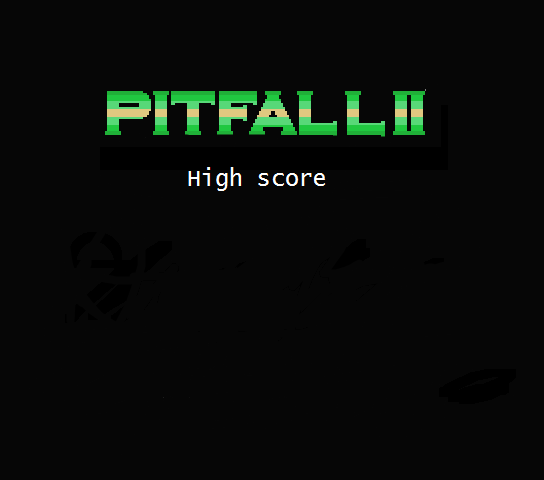
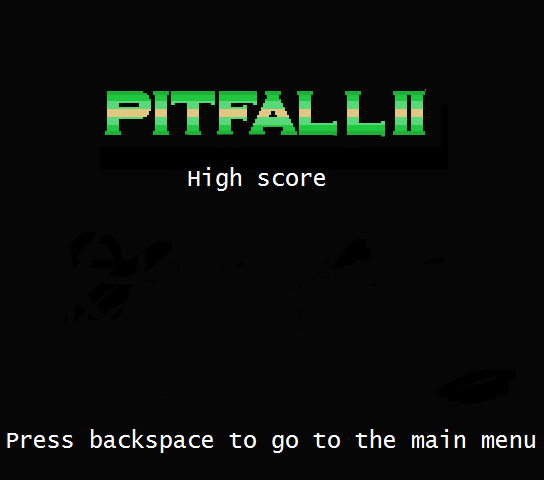
8/12

Changed region(s): [[0.0, 0.9062, 0.4688, 0.9375], [0.6562, 0.875, 1.0, 0.9375], [0.5, 0.9062, 0.625, 0.9375]]

diff --git a/core/src/com/mygdx/game/MyGdxGame.java b/core/src/com/mygdx/game/MyGdxGame.java
@@ -35,7 +35,7 @@ public class MyGdxGame extends ApplicationAdapter implements InputProcessor {
     InteractiveObject doorTwo;
     InteractiveObject doorThree;
     Texture cactus;
-    ArrayList<Integer> highscore;
+    ArrayList <Integer> highscores = new ArrayList<Integer>();
     BitmapFont highscorefont;
     Texture high_score;
     ArrayList<Coin> coins;
@@ -47,12 +47,8 @@ public class MyGdxGame extends ApplicationAdapter implements InputProcessor {
 
     Hero hero;// //an extra reference to Hero, for convenience.
 
-
-    Animation walkAnimation; // Allows us to create animated figure.
-    Texture walkSheet;          //The Texture which will contain the whole sheet as a single image (texture).
-    TextureRegion[] walkFrames; //Declare walkFrames as an array, the array holds each frame of the animation.
     SpriteBatch spriteBatch;    //The SpriteBatch is used to draw the texture onto the screen.
-    TextureRegion currentFrame; //This variable will hold the current frame and this is the region which is drawn on each render call.
+    static TextureRegion currentFrame; //This variable will hold the current frame and this is the region which is drawn on each render call.
 
     float stateTime;   // The stateTime is the number of seconds elapsed from the start of the animation.
     GameState state = GameState.START_SCREEN;
@@ -69,7 +65,6 @@ public class MyGdxGame extends ApplicationAdapter implements InputProcessor {
         createObstacles();
         createHero();
         createEnemyOne();
-        createTreasure();
         createScenarios();
         Gdx.input.setInputProcessor(this);
 
@@ -138,8 +133,8 @@ public class MyGdxGame extends ApplicationAdapter implements InputProcessor {
         obstacles.add(brickplattform2);
         obstacles.add(brickplattform4);
 
-        Coin coin1 = new Coin("Plattform/coiiins.png", 350, 500, 50);
-        Coin coin2 = new Coin("Plattform/coiiins.png", 750, 400, 50);
+        Coin coin1 = new Coin("Plattform/coiiins.png", 300, 170, 50);
+        Coin coin2 = new Coin("Plattform/coiiins.png", 980, 440, 50);
         coins.add(coin1);
         coins.add(coin2);
         door = new InteractiveObject("Plattform/Door.png", 1185, 420, 120, 90);
@@ -160,6 +155,16 @@ public class MyGdxGame extends ApplicationAdapter implements InputProcessor {
         Obstacle plattform6 = new Obstacle("Plattform/brickPlattform.png", 1000, 75, 200, 25);
         Obstacle plattform7 = new Obstacle("Plattform/brickPlattform.png", 850, 179, 150, 25);
         Obstacle plattform8 = new Obstacle("Plattform/brickPlattform.png", 630, 520, 650, 25);
+
+        Coin coin1 = new Coin("Plattform/coiiins.png", 970, 208, 50);
+        Coin coin2 = new Coin("Plattform/coiiins.png", 300, 380, 50);
+        Coin coin3 = new Coin("Plattform/coiiins.png", 380, 120, 50);
+        Coin coin4 = new Coin("Plattform/coiiins.png", 1000, 30, 50);
+        coins.add(coin1);
+        coins.add(coin2);
+        coins.add(coin3);
+        coins.add(coin4);
+
 
 
         obstacles.add(plattform4);
@@ -202,6 +207,16 @@ public class MyGdxGame extends ApplicationAdapter implements InputProcessor {
         InteractiveObject ladder1 = new InteractiveObject("Hero/ladder.png", 100, 90, 50, 250);
         InteractiveObject ladder2 = new InteractiveObject("Hero/ladder.png", 550, 350, 50, 200);
         InteractiveObject ladder3 = new InteractiveObject("Hero/ladder.png", 1000, 90, 50, 270);
+
+        Coin coin1 = new Coin("Plattform/coiiins.png", 70, 360, 50);
+        Coin coin2 = new Coin("Plattform/coiiins.png", 1110, 570, 50);
+        Coin coin3 = new Coin("Plattform/coiiins.png", 580, 130, 50);
+        Coin coin4 = new Coin("Plattform/coiiins.png", 80, 100, 50);
+
+        coins.add(coin1);
+        coins.add(coin2);
+        coins.add(coin3);
+        coins.add(coin4);
 
         doorThree = new InteractiveObject("Plattform/Door.png", 1100, 350, 80, 80);
         iceForm11 = new Blocks("Plattform/iceform2.png", 900,430,65,65);
@@ -268,29 +283,6 @@ public class MyGdxGame extends ApplicationAdapter implements InputProcessor {
         controls = new Texture("gamescenarios/pitfall2_controls.png");
         gameover = new Texture("gamescenarios/Game_Over_Screen.png");
         high_score = new Texture("gamescenarios/high_score.png");
-    }
-
-
-    public void createTreasure() {
-        //1 Creates a texture from animation_sheet.png which is placed in the walksheet directory of the project
-        //2 Using the split convenience method on the texture, we obtain a two dimensional array of the frames from the texture,  the walkFrames array is populated. This is necessary, as the Animation works with one dimensional arrays only.
-
-        walkSheet = new Texture(Gdx.files.internal("Plattform/coiiins.png"));
-        TextureRegion[][] tmp = TextureRegion.split(walkSheet, walkSheet.getWidth() / FRAME_COLS, walkSheet.getHeight() / FRAME_ROWS);              // #10
-        walkFrames = new TextureRegion[FRAME_COLS * FRAME_ROWS];
-        int index = 0;
-        for (int i = 0; i < FRAME_ROWS; i++) {
-            for (int j = 0; j < FRAME_COLS; j++) {
-                walkFrames[index++] = tmp[i][j];
-            }
-
-            walkAnimation = new Animation(0.080f, walkFrames); //3 This is where the Animation is created. The first parameter tells the animation, how much time is allocated for each frame.
-             //4 Initialises the SpriteBatch which will draw the frame.
-            stateTime = 0f; // Resets the stateTime to 0. It will start accumulating the time each render call.
-
-
-        }
-
     }
 
     public void checkObstacleCollision() {
@@ -493,30 +485,45 @@ public class MyGdxGame extends ApplicationAdapter implements InputProcessor {
     }
 
     public void gameOver() {
-        highscore = new ArrayList<Integer>();
-        highscore.add(score);
-        Collections.sort(highscore);
-        Collections.reverse(highscore);
+
+        highscores.add(score);
+        Collections.sort(highscores);
+        Collections.reverse(highscores);
         score = 0;
         Life = 3;
         spriteBatch.begin();
         spriteBatch.draw(gameover, 480, 210);
         spriteBatch.end();
+        if (Gdx.input.isKeyPressed(Input.Keys.SPACE)) {
+            state = GameState.START_SCREEN;
+        }
 
     }
 
     public void showHighScore(){
 
-        int xpos = 450;
+        //highscore != 0 &&
+        float ypos = 405;
+        float xpos = 598;
+        int rank = 1;
         spriteBatch.begin();
-        spriteBatch.draw(high_score, 500, 220);
-        if (highscore.size() != 0) {
-            for (int i = 1; i <= highscore.size(); i++) {
-                highscorefont.draw(spriteBatch, i + " " + highscore.get(i), xpos, 240);
-                xpos -= 50;
+        spriteBatch.draw(high_score, 411, 144);
+        if (highscores.size() != 0) {
+            for (Integer highscore : highscores){
+                if ( rank <= 10) {
+                    if (rank == 10){
+                        xpos -= 7;
+                    }
+                    highscorefont.draw(spriteBatch, rank + "                           " + highscore, xpos, ypos);
+                    rank++;
+                    ypos -= 20;
+                }
             }
         }
         spriteBatch.end();
+        if (Gdx.input.isKeyPressed(Input.Keys.BACKSPACE)) {
+            state = GameState.START_SCREEN;
+        }
     }
 
     public void showControls() {
@@ -534,7 +541,7 @@ public class MyGdxGame extends ApplicationAdapter implements InputProcessor {
         Gdx.gl.glClear(GL20.GL_COLOR_BUFFER_BIT | GL20.GL_DEPTH_BUFFER_BIT); //Clears the screen each frame.
         stateTime += Gdx.graphics.getDeltaTime(); // Adds the time elapsed since the last render to the stateTime.
 
-        currentFrame = walkAnimation.getKeyFrame(stateTime, true); //Obtains the current frame
+        currentFrame = Coin.walkAnimation.getKeyFrame(stateTime, true); //Obtains the current frame
 
         checkObstacleCollision();
         checkEnemyCollision();
@@ -547,8 +554,6 @@ public class MyGdxGame extends ApplicationAdapter implements InputProcessor {
 
         spriteBatch.begin();
         spriteBatch.draw(backGroundImg, 0, 20);
-        spriteBatch.draw(currentFrame, 980, 440); // Renders the current frame onto the screen using the super awesome SpriteBatch at 50,50.
-        spriteBatch.draw(currentFrame, 300, 170);
         font.draw(spriteBatch, "Number of lives:" + Life, 20, 700);
 
 
@@ -563,9 +568,8 @@ public class MyGdxGame extends ApplicationAdapter implements InputProcessor {
         }
         door.draw(spriteBatch);
 
-
-        for (InteractiveObject coin : coins){
-            coin.draw(spriteBatch);
+        for (Coin coin : coins){
+            coin.drawCoin(spriteBatch);
         }
 
         //Update all game figures' positions based on their speeds
@@ -605,7 +609,7 @@ public class MyGdxGame extends ApplicationAdapter implements InputProcessor {
         Gdx.gl.glClear(GL20.GL_COLOR_BUFFER_BIT | GL20.GL_DEPTH_BUFFER_BIT); //Clears the screen each frame.
         stateTime += Gdx.graphics.getDeltaTime(); // Adds the time elapsed since the last render to the stateTime.
 
-        currentFrame = walkAnimation.getKeyFrame(stateTime, true); //Obtains the current frame
+        currentFrame = Coin.walkAnimation.getKeyFrame(stateTime, true); //Obtains the current frame
 
 
 
@@ -619,15 +623,16 @@ public class MyGdxGame extends ApplicationAdapter implements InputProcessor {
             figure.updatePosition();
         }
 
+
+
         spriteBatch.begin();
         spriteBatch.draw(backGroundImg, 0, 20);
-		spriteBatch.draw(currentFrame, 970, 208); // Renders the current frame onto the screen using the super awesome SpriteBatch at 50,50.
-		spriteBatch.draw(currentFrame, 300, 380);
-        spriteBatch.draw(currentFrame, 380, 120);
-        spriteBatch.draw(currentFrame, 1000, 30);
         font.draw(spriteBatch, "Number of lives:"+ Life, 20, 700);
         spriteBatch.draw(cactus,550,20,200,140);
 
+        for (Coin coin : coins){
+            coin.drawCoin(spriteBatch);
+        }
 
         for (Obstacle obstacle : obstacles) {
             obstacle.draw(spriteBatch);
@@ -675,7 +680,7 @@ public class MyGdxGame extends ApplicationAdapter implements InputProcessor {
 
 
         stateTime += Gdx.graphics.getDeltaTime(); // Adds the time elapsed since the last render to the stateTime.
-        currentFrame = walkAnimation.getKeyFrame(stateTime, true);
+        currentFrame = Coin.walkAnimation.getKeyFrame(stateTime, true);
 
 
         checkEnemyCollision();
@@ -690,12 +695,15 @@ public class MyGdxGame extends ApplicationAdapter implements InputProcessor {
         spriteBatch.begin();
         spriteBatch.draw(backGroundLevelThree,-400,0);
 
-        spriteBatch.draw(currentFrame, 70, 360);
+        /*spriteBatch.draw(currentFrame, 70, 360);
         spriteBatch.draw(currentFrame, 1110, 570);
         spriteBatch.draw(currentFrame, 580, 130);
-        spriteBatch.draw(currentFrame, 80, 100);
+        spriteBatch.draw(currentFrame, 80, 100);*/
         font.draw(spriteBatch, "Number of lives:" + Life, 0, 720);
 
+        for (Coin coin : coins){
+            coin.drawCoin(spriteBatch);
+        }
 
         for(Obstacle obstacle: obstacles) {
             obstacle.draw(spriteBatch);
@@ -746,7 +754,7 @@ public class MyGdxGame extends ApplicationAdapter implements InputProcessor {
     @Override
     public boolean keyDown(int keycode) {
 
-        if (keycode == Input.Keys.SPACE) {
+        if (keycode == Input.Keys.SPACE && state != GameState.START_SCREEN) {
             hero.jump();
         }
         if (keycode == Input.Keys.RIGHT) {
@@ -766,9 +774,6 @@ public class MyGdxGame extends ApplicationAdapter implements InputProcessor {
 
     @Override
     public boolean keyUp(int keycode) {
-        if (keycode == Input.Keys.NUM_1 && state == GameState.GAME_OVER) {
-            state = GameState.START_SCREEN;
-        }
 
         if (keycode == Input.Keys.RIGHT && hero.getSpeedY() == 0 &&(hero.getState()==Hero.HeroState.WALKING||hero.getState()== Hero.HeroState.CLIMBING)) {
             hero.stopComplete();

diff --git a/core/src/com/mygdx/game/Coin.java b/core/src/com/mygdx/game/Coin.java
@@ -4,13 +4,14 @@ import com.badlogic.gdx.Gdx;
 import com.badlogic.gdx.graphics.Texture;
 import com.badlogic.gdx.graphics.g2d.Animation;
 import com.badlogic.gdx.graphics.g2d.TextureRegion;
+import com.badlogic.gdx.graphics.g2d.SpriteBatch;
 
 public class Coin extends InteractiveObject {
 
-    Animation walkAnimation; // Allows us to create animated figure.
+    float x, y;
+    static Animation walkAnimation; // Allows us to create animated figure.
     Texture walkSheet;          //The Texture which will contain the whole sheet as a single image (texture).
     TextureRegion[] walkFrames; //Declare walkFrames as an array, the array holds each frame of the animation.
-    TextureRegion currentFrame; //This variable will hold the current frame and this is the region which is drawn on each render call.
     float stateTime;   // The stateTime is the number of seconds elapsed from the start of the animation.
 
     private static final int FRAME_COLS = 10; //defines constants representing how many sprites are laid out horizontally and vertically
@@ -18,6 +19,8 @@ public class Coin extends InteractiveObject {
 
     public Coin (String textureFilePath, float x, float y, int size){
         super(textureFilePath, x, y, size, size);
+        this.x = x;
+        this.y = y;
         animateCoin();
     }
 
@@ -37,10 +40,11 @@ public class Coin extends InteractiveObject {
             walkAnimation = new Animation(0.080f, walkFrames); //3 This is where the Animation is created. The first parameter tells the animation, how much time is allocated for each frame.
             stateTime = 0f; // Resets the stateTime to 0. It will start accumulating the time each render call.
 
-
         }
 
-
+    }
+    public void drawCoin(SpriteBatch batch){
+        batch.draw(MyGdxGame.currentFrame, x, y);
     }
 
 }

diff --git a/core/src/com/mygdx/game/Hero.java b/core/src/com/mygdx/game/Hero.java
@@ -143,7 +143,7 @@ public class Hero extends Figure {
                 getHeight());
     }
 
-    //enums for what state the hero are in
+    //enums for what state the hero is in
     public enum HeroState {
         WALKING,
         FLYING,

diff --git a/core/src/com/mygdx/game/Obstacle.java b/core/src/com/mygdx/game/Obstacle.java
@@ -29,6 +29,7 @@ public class Obstacle {
         sprite.draw(batch);
     }
 
+
     public Rectangle getCollisionRectangle() {
         return new Rectangle(
                 sprite.getX() + 40,
